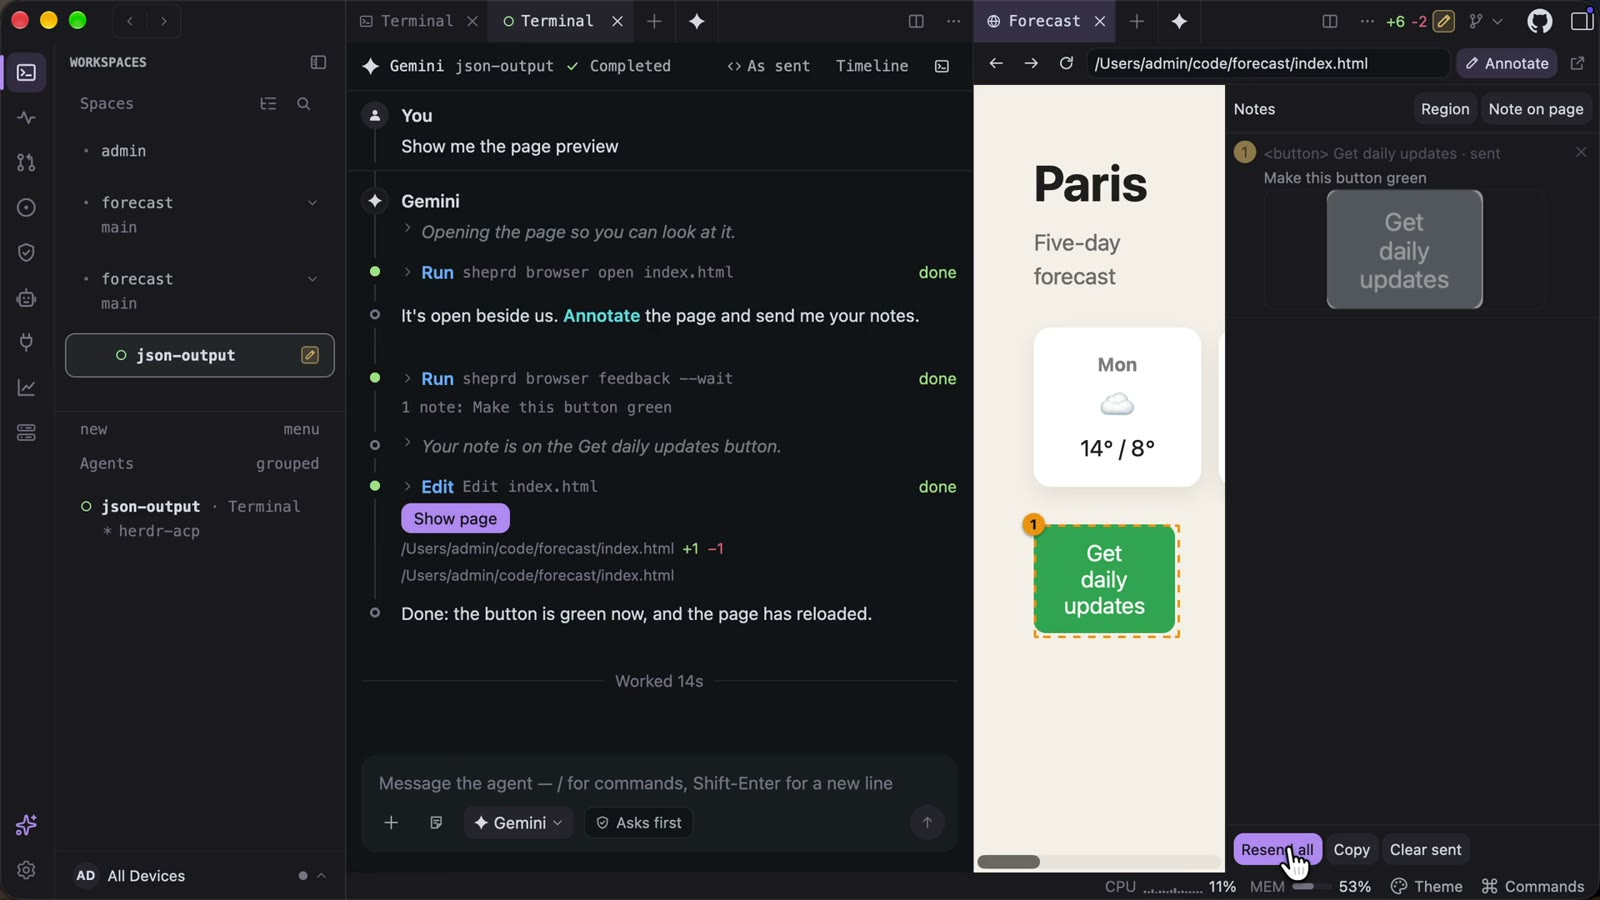
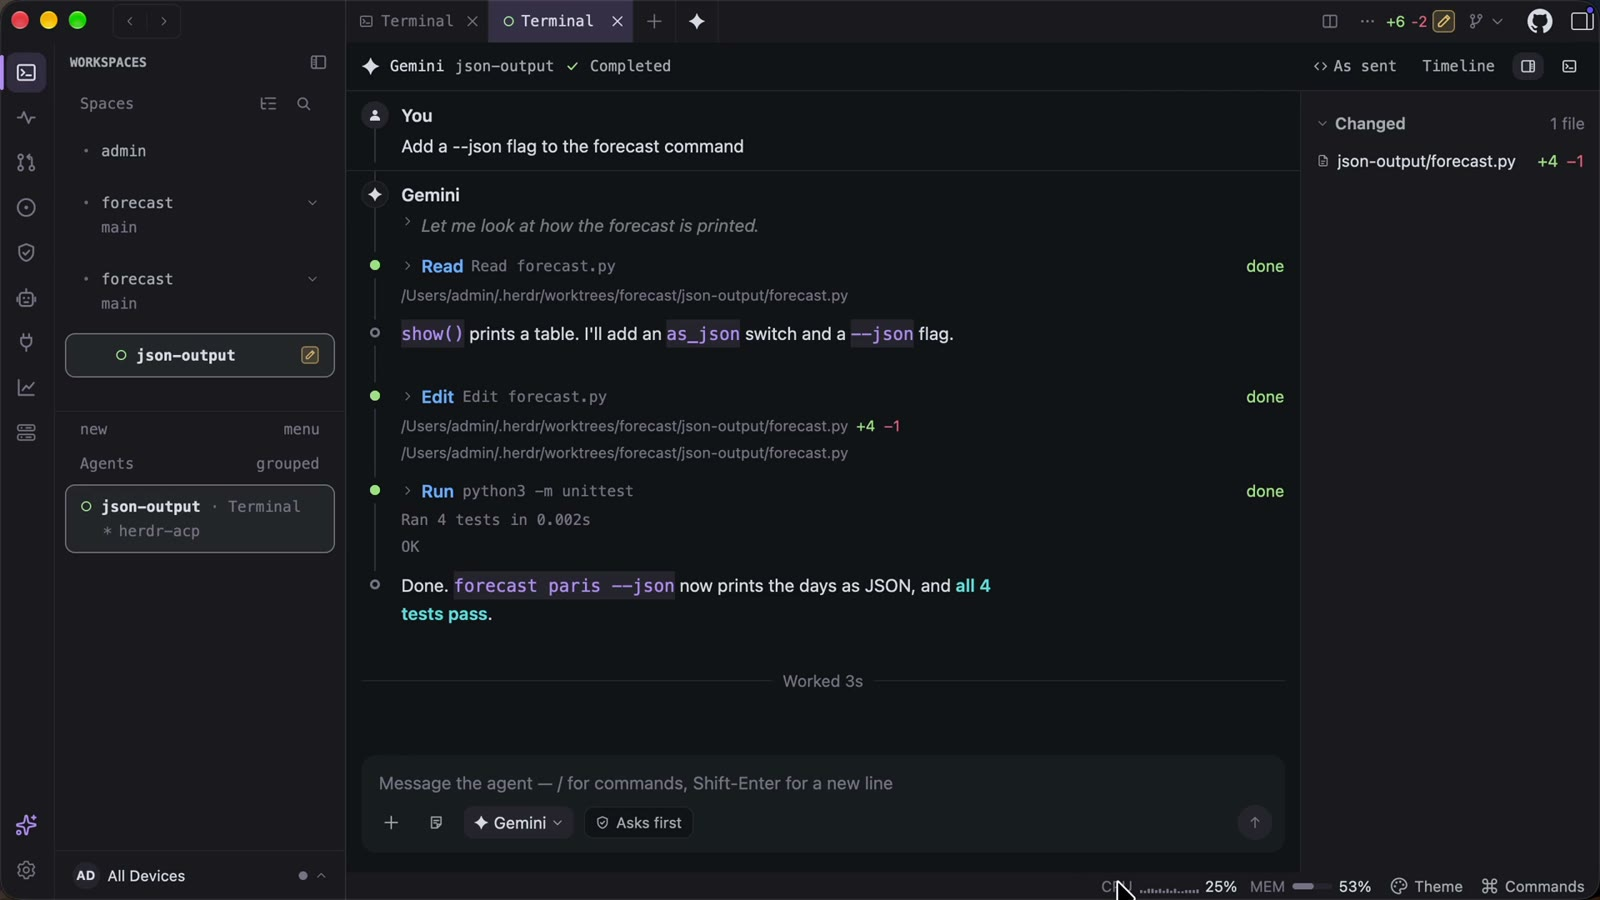
chore(screencast): sync takes on a mark, slower voice, subtitle title
Stopping the recorder drops the movie's last seconds, so aligning on its end put the voice and click rings about four seconds ahead of the screen. The take now hides Sheprd for a moment during the warm-up and aligns on the frame where the screen turns bright. Clicks are logged once the press lands.

Narration is slower (ElevenLabs speed 0.9) with a second's pause after each sentence, the title is a lower third with a soft shadow, the machine never sleeps or locks, and a failed chunk of a take's copy is asked again. The tour's cover is a frame without the browser.

diff --git a/website/site/features/index.html b/website/site/features/index.html
@@ -31,7 +31,7 @@
 <figure class="demo tour-demo"><video id="feature-demo" controls playsinline preload="metadata" poster="/assets/feature-clips/tour.jpg" data-clips="/assets/feature-clips/tour" data-window="moonframe" aria-label="A tour of Sheprd, narrated demonstration">
 <source src="/assets/feature-clips/tour.moonframe.en.mp4" type="video/mp4"><track kind="captions" src="/assets/feature-clips/tour.moonframe.en.vtt" srclang="en" label="English">
 <a href="/assets/feature-clips/tour.moonframe.en.mp4">Download the demo</a>.</video>
-<figcaption><span class="demo-switches"><span class="demo-langs" role="group" aria-label="Window"><button type="button" data-window="moonframe" aria-pressed="true">Moonframe</button><button type="button" data-window="classic" aria-pressed="false">Classic</button></span><span class="demo-langs" role="group" aria-label="Narration language"><button type="button" data-lang="en" aria-pressed="true" lang="en">English</button><button type="button" data-lang="fr" aria-pressed="false" lang="fr">Français</button></span></span><span>New to Sheprd? Start here · 122 seconds</span></figcaption></figure>
+<figcaption><span class="demo-switches"><span class="demo-langs" role="group" aria-label="Window"><button type="button" data-window="moonframe" aria-pressed="true">Moonframe</button><button type="button" data-window="classic" aria-pressed="false">Classic</button></span><span class="demo-langs" role="group" aria-label="Narration language"><button type="button" data-lang="en" aria-pressed="true" lang="en">English</button><button type="button" data-lang="fr" aria-pressed="false" lang="fr">Français</button></span></span><span>New to Sheprd? Start here · 125 seconds</span></figcaption></figure>
 <search class="feature-search" role="search">
 <label for="feature-query" class="sr-only">Search the features</label>
 <input id="feature-query" type="search" placeholder="Search features, e.g. review, theme, agent…" autocomplete="off" spellcheck="false">

diff --git a/scripts/screencast/screencast.py b/scripts/screencast/screencast.py
@@ -53,8 +53,8 @@ FPS = 60
 LEAD_IN = 1.0  # seconds of screen before the first segment
 # screencapture can take seconds to start recording, so wait this long before
 # the first segment and trim what it caught before LEAD_IN.
-WARMUP = 12.0
-GAP = 0.5  # silence after each segment's voice
+WARMUP = 16.0
+GAP = 1.0  # silence after each segment's voice, to take in what was shown
 TAIL = 1.5  # seconds after the last segment
 CHUNK = 45000  # bytes per pulled chunk; base64 of it stays under the exec output cap
 APP = "~/Apps/Sheprd.app"
@@ -115,6 +115,9 @@ def speak(spec, providers, langs, work, cache):
 
 # The window being recorded, for steps that differ between windows.
 WINDOW = None
+# screencapture writes a frame a little after the screen shows it, so a ring
+# drawn at the logged time would come before the click it marks.
+RECORDER_LAG = 0.05
 # Clicks made while recording, as (monotonic time, x, y) in screenshot pixels,
 # so the render can mark where each lands.
 CLICKS = []
@@ -147,8 +150,9 @@ def act(name, action):
         # redrawn in, so the press would land on the old hover.
         machine(name, "exec", "--", HOVER, str(x / 2), str(y / 2))
         time.sleep(0.2)
-        CLICKS.append((time.monotonic(), x, y))
         machine(name, "click", str(x), str(y), *(["--right"] if "right" in extra else []))
+        # When the press landed: the command returns once it is posted.
+        CLICKS.append((time.monotonic(), x, y))
     elif kind == "hover":
         # Point at something without clicking: a theme previews, a tooltip
         # shows, or the viewer's eye follows the pointer there.
@@ -229,7 +233,15 @@ def record(spec, name, slots, work):
         machine(name, "exec", "--", "sh", "-c", f"kill -INT {recorder}; sleep 2")
 
     try:
-        time.sleep(WARMUP)
+        # A sync mark the render finds: Sheprd hides at a known moment, the
+        # screen turns to the bright desktop, and it comes back. It falls in
+        # the warm-up, which the render cuts.
+        time.sleep(WARMUP - 4)
+        mark = time.monotonic() - t0
+        machine(name, "key", "cmd+h")
+        time.sleep(1.2)
+        machine(name, "exec", "--", "sh", "-c", f"open {APP}")
+        time.sleep(2.8)
         starts = []
         for seg, slot in zip(spec["segments"], slots):
             begin = time.monotonic()
@@ -256,8 +268,15 @@ def record(spec, name, slots, work):
 
     raw = work / "screen.mov"
     pull(name, movie, raw)
-    # The movie ends when it was stopped; place segment starts on its clock.
-    offset = duration(raw) - stopped
+    # Place the segment starts and clicks on the movie's clock by the sync
+    # mark; the movie's end is not reliable, as stopping the recorder drops
+    # its last seconds.
+    seen = mark_time(raw, mark)
+    if seen is None:
+        print("no sync mark found; aligning on the movie's end", file=sys.stderr)
+        offset = duration(raw) - stopped
+    else:
+        offset = seen - mark
     starts = [s + offset for s in starts]
     clicks = [[at - t0 + offset, x, y] for at, x, y in CLICKS if at - t0 < stopped]
     (work / "timing.json").write_text(json.dumps({"starts": starts, "slots": slots,
@@ -265,12 +284,43 @@ def record(spec, name, slots, work):
     return starts
 
 
+def mark_time(movie, around):
+    """When the screen first turns bright (Sheprd hidden, the desktop showing)
+    in the movie, searching from 4 s before to 8 s after `around` seconds."""
+    out = subprocess.run(
+        ["ffmpeg", "-v", "error", "-ss", f"{max(0.0, around - 4):.2f}", "-t", "12", "-i", str(movie),
+         "-vf", "scale=320:-1,signalstats,metadata=print:key=lavfi.signalstats.YAVG:file=-",
+         "-f", "null", "-"], capture_output=True, text=True, check=True).stdout
+    frames, at = [], None
+    for line in out.splitlines():
+        if line.startswith("frame:"):
+            at = float(line.split("pts_time:")[1]) + max(0.0, around - 4)
+        elif "YAVG=" in line and at is not None:
+            frames.append((at, float(line.split("=")[1])))
+    if len(frames) < 2:
+        return None
+    dark = min(y for _, y in frames)
+    bright = max(y for _, y in frames)
+    if bright - dark < 25:
+        return None
+    return next(t for t, y in frames if y > (dark + bright) / 2)
+
+
 def pull(name, remote, local):
     size = int(machine(name, "exec", "--", "stat", "-f", "%z", remote).strip())
     with open(local, "wb") as f:
         for i in range((size + CHUNK - 1) // CHUNK):
-            out = machine(name, "exec", "--", "sh", "-c",
-                          f"dd if={remote} bs={CHUNK} skip={i} count=1 2>/dev/null | base64")
+            # The agent's connection drops now and then; a chunk is asked again
+            # rather than losing a whole take.
+            for attempt in range(4):
+                try:
+                    out = machine(name, "exec", "--", "sh", "-c",
+                                  f"dd if={remote} bs={CHUNK} skip={i} count=1 2>/dev/null | base64")
+                    break
+                except subprocess.CalledProcessError:
+                    if attempt == 3:
+                        raise
+                    time.sleep(2)
             f.write(base64.b64decode(out))
     if local.stat().st_size != size:
         sys.exit(f"pulled {local.stat().st_size} of {size} bytes")
@@ -293,9 +343,14 @@ def caption(text, lang, path, size, width):
 
 
 def title_card(text, lang, path):
-    run("magick", "-background", "#000000b0", "-fill", "white", "-font", font(lang),
-        "-pointsize", "64", f"label:{text}", "-bordercolor", "#000000b0",
-        "-border", "40x24", str(path))
+    """The video's title as a lower third: white text on no box, lifted off
+    the screen behind it by a soft shadow rather than a black band."""
+    run("magick", "-background", "none", "-fill", "white", "-font", font(lang),
+        "-pointsize", "58", f"label:{text}", "-bordercolor", "none", "-border", "40x30",
+        "(", "+clone", "-background", "black", "-shadow", "85x10+0+3", ")",
+        "+swap", "-background", "none", "-layers", "merge", "+repage",
+        "(", "+clone", "-background", "black", "-shadow", "55x26+0+0", ")",
+        "+swap", "-background", "none", "-layers", "merge", "+repage", f"PNG32:{path}")
 
 
 # How a segment's `shortcut` (the other platforms' keys, as the command catalog
@@ -360,7 +415,7 @@ def render(spec, provider, lang, starts, work, window, out, captions=False, crop
     # before that is cut.
     head = max(0.0, starts[0] - LEAD_IN)
     starts = [start - head for start in starts]
-    clicks = [(at - head, x, y) for at, x, y in clicks if at - head > 0]
+    clicks = [(at - head + RECORDER_LAG, x, y) for at, x, y in clicks if at - head > 0]
     d = work / window / "render" / slug(provider) / lang
     d.mkdir(parents=True, exist_ok=True)
     title_card(spec["title"][lang], lang, d / "title.png")
@@ -373,7 +428,7 @@ def render(spec, provider, lang, starts, work, window, out, captions=False, crop
         f"[0:v]fps={FPS},trim=start={head:.3f},setpts=PTS-STARTPTS,"
         f"tpad=stop_mode=clone:stop_duration=5,crop=iw:ih*{crop}:0:0,scale={WIDTH}:{HEIGHT}:force_original_aspect_ratio=decrease,"
         f"pad={WIDTH}:{HEIGHT}:(ow-iw)/2:(oh-ih)/2:color=0x101014[v0]",
-        f"[v0][1:v]overlay=(W-w)/2:150:shortest=1:enable='lt(t,{starts[1]:.3f})'[v1]",
+        f"[v0][1:v]overlay=(W-w)/2:H-h-90:shortest=1:enable='lt(t,{starts[1]:.3f})'[v1]",
     ]
     srt, audio_labels = [], []
     last = "v1"

diff --git a/scripts/screencast/tts.py b/scripts/screencast/tts.py
@@ -45,6 +45,9 @@ ELEVENLABS_VOICES = {
     "river": "SAz9YHcvj6GT2YYXdXww",
 }
 ELEVENLABS_DEFAULT_VOICE = ELEVENLABS_VOICES["river"]
+# A little slower than the voices' natural pace (0.7-1.2): the videos explain
+# things a viewer sees for the first time.
+ELEVENLABS_SPEED = 0.9
 # A native voice for a language beats the voice named on the command line: the
 # English voices speak French with a Canadian accent.
 ELEVENLABS_NATIVE = {
@@ -96,6 +99,7 @@ def _elevenlabs(text, lang, voice):
         "text": text,
         "model_id": ELEVENLABS_MODEL,
         "language_code": ELEVENLABS_LANGUAGE.get(lang, lang),
+        "voice_settings": {"speed": ELEVENLABS_SPEED},
     }
     headers = {"xi-api-key": key, "Content-Type": "application/json",
                "Accept": "audio/mpeg"}
@@ -122,7 +126,8 @@ def synthesize(provider, text, lang, path, cache):
     else:
         voice = _elevenlabs_voice(provider, lang)
         model = ELEVENLABS_MODEL
-    key = f"{model}\0{voice}\0{lang}\0{text}"
+    speed = ELEVENLABS_SPEED if provider.startswith("elevenlabs") else 1.0
+    key = f"{model}\0{voice}\0{lang}\0{text}" + (f"\0{speed}" if speed != 1.0 else "")
     cached = Path(cache) / f"{hashlib.sha256(key.encode()).hexdigest()[:32]}.mp3"
     if not cached.exists():
         cached.parent.mkdir(parents=True, exist_ok=True)
